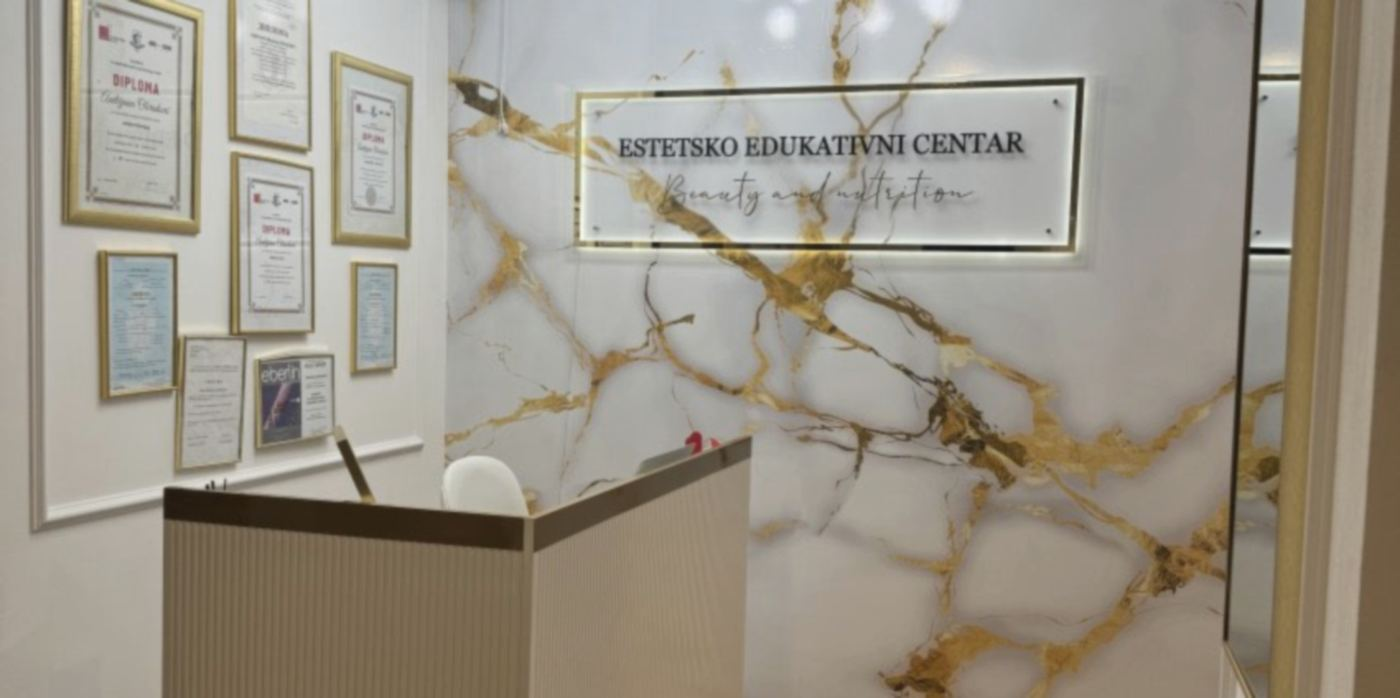
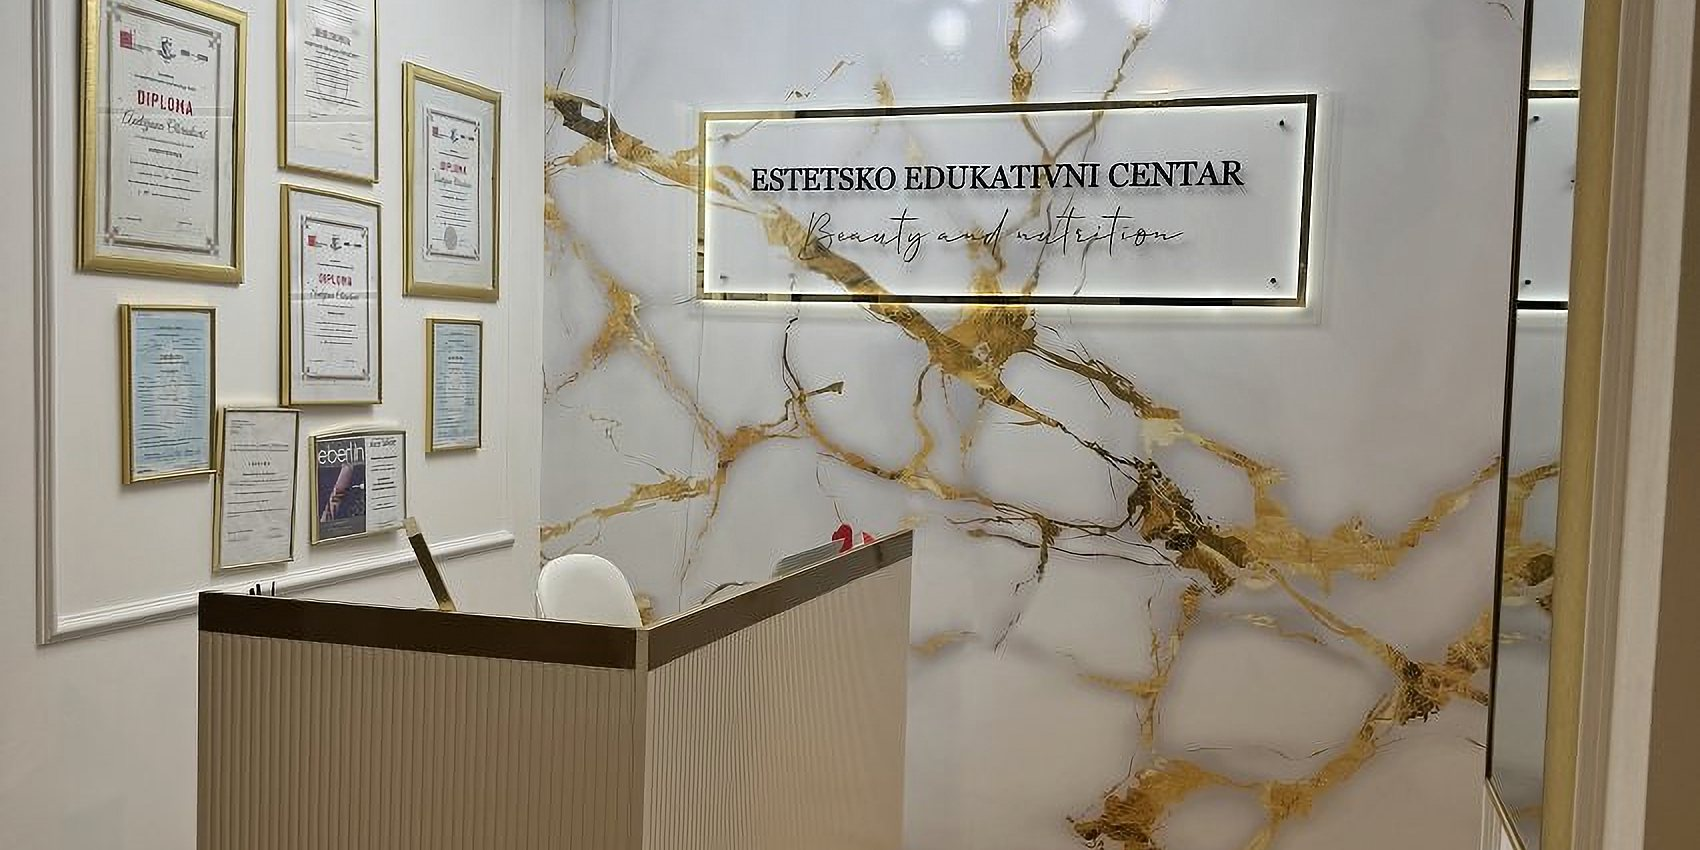
Oštriji hero, poravnat tekst na karticama i slike za tretmane bez slike
- Hero: fotografija salona je ranije bila uvećana 1,65x i namerno
  zamućena, pa je na računaru bila mutna. Sada je uvećana 2x modelom
  Swin2SR (lokalno, bez zamućenja i bez smanjenog kontrasta), 1700x850.
  Raspored hero sekcije je isti.
- Kartice: svaka kartica zauzima pet redova mreže (fotografija, naziv,
  trajanje i cena, opis/napomena/„Prikaži više", dugmad), a redovi su
  zajednički za kartice u istom redu (CSS subgrid). Nazivi u jednom i
  dva reda počinju na istoj visini, cene, linije i dugmad su u ravni.
  Pregledači bez subgrid-a zadržavaju raniji raspored.
- Edukacije su sada kartice sa slikom (gornji deo plakata, ceo plakat
  na uvećanoj slici).
- 15 novih slika iz poslatih fotografija: bubble pen, endosfera lica
  (i podbratka), fototerapija (mala slika, AI uvećanje), kolagen niti
  (sve tri usluge), lipoliza podbratka, lipomodelovanje gornjeg dela
  (i akcija), lipomodelovanje + lipoliza + EMS, maderoterapija premium
  mix (tri fotografije), šminkanje, radiotalasni lifting lica, voćne
  kiseline (i Derma evolution), obe edukacije.
- Privremeno, do posebnih slika: Bio sonda, SPA masaža sa pilingom,
  Neinvazivna body sculpt terapija i Mikrodermoabrazija + bubble pen
  koriste najsličnije postojeće fotografije. Darsonvalizacija kose i
  dalje ima znak salona (nema odgovarajuće fotografije).

Claude-Session: https://claude.ai/code/session_016rbvAuM4D1uDY2CXrVdw2E

diff --git a/public/index.html b/public/index.html
@@ -163,10 +163,12 @@ input,select,textarea{font:inherit;color:var(--ink)}
 .svc p.desc{display:none}
 .svc.open p.desc{display:block}
 .svc .more{align-self:flex-end;margin-top:auto;font-size:11px;font-weight:800;letter-spacing:.1em;text-transform:uppercase;color:var(--gold-strong)}
-.svc-foot{display:flex;justify-content:space-between;align-items:center;gap:10px 14px;margin-top:auto;padding-top:12px;border-top:1px solid var(--line-soft)}
+.svc-foot{display:grid;grid-template-columns:minmax(0,1fr) auto;align-items:center;align-content:start;gap:10px 14px;margin-top:auto;padding-top:12px;border-top:1px solid var(--line-soft)}
 .svc-foot .note{min-width:0}
 .svc-acts{display:flex;flex-direction:column;align-items:stretch;gap:8px;flex:none;min-width:136px}
-.svc .more+.svc-foot{margin-top:0} /* „Prikaži više" stoji u desnom uglu iznad Dodaj/Kalendar, linije kartica u redu ostaju poravnate */
+/* opis, napomena o paketu i „Prikaži više" (desno, odmah iznad linije sa dugmadima) */
+.svc-x{display:flex;flex-direction:column;gap:10px;min-width:0}
+.svc-x:empty{display:none}
 .svc-acts .btn svg{flex:none}
 .svc-note{display:flex;align-items:flex-start;gap:7px;font-size:11.5px;line-height:1.45;color:var(--gold-strong);font-weight:700}
 .svc-note svg{flex:none;margin-top:-0.5px}
@@ -200,8 +202,24 @@ input,select,textarea{font:inherit;color:var(--ink)}
 .svc-img.ph span{font-family:var(--ff-disp);font-size:13px;letter-spacing:.3em;text-transform:uppercase;color:var(--band-gold);opacity:.8}
 @container (max-width:635px){
   .svc.photo.noimg{min-height:0}
+  .svc.photo.noimg::after{display:none}
   .svc.photo.noimg .svc-img{display:none}
   .svc.photo.noimg .svc-body{padding-top:22px;background:var(--band)}
+}
+/* tekst u istoj ravni u celom redu kartica: svaka kartica zauzima pet redova mreže (fotografija, naziv, trajanje i cena,
+   opis/napomena/„Prikaži više", dugmad), a ti redovi su zajednički za sve kartice u istom redu (subgrid).
+   Naziv u jednom redu ostaje poravnat sa nazivima u dva reda, cene, linije i dugmad su na istoj visini.
+   Pregledači bez subgrid-a zadržavaju raniji raspored. */
+@supports (grid-template-rows:subgrid){
+  .svc-grid{row-gap:0}
+  .svc-grid>.svc{margin-bottom:16px}
+  .svc.photo{display:grid;grid-row:span 5;grid-template-rows:subgrid;grid-template-columns:minmax(0,1fr);justify-content:stretch;row-gap:0;min-height:0}
+  .svc.photo::after{content:"";grid-row:1;grid-column:1;height:var(--svc-img-h,212px)}
+  .svc-body{grid-row:2/span 4;display:grid;grid-template-rows:subgrid;row-gap:0}
+  .svc-body>.svc-top{grid-row:1}
+  .svc-body>.svc-meta{grid-row:2;margin-top:10px}
+  .svc-body>.svc-x{grid-row:3;margin-top:10px}
+  .svc-body>.svc-foot{grid-row:4;margin-top:10px}
 }
 .empty{border:1px dashed var(--line);border-radius:18px;padding:44px 20px;text-align:center;color:var(--muted);background:var(--surface)}
 .remind{display:flex;gap:12px;align-items:center;background:linear-gradient(135deg,var(--gold-soft),transparent 160%);border:1px solid var(--gold);color:var(--gold-strong);border-radius:14px;padding:13px 18px;margin:0 0 20px;font-weight:700;font-size:13.5px;box-shadow:var(--shadow)}
@@ -891,10 +909,20 @@ function reminderBanner(){
 /* fotografije tretmana: dodeljuju se po nazivu tretmana (bez obzira na kvačice i velika slova); važi prvo pravilo koje odgovara,
    pa su konkretnija pravila iznad opštijih. Tretmani koje salon doda kasnije dobijaju sliku ako im naziv odgovara nekom pravilu. */
 const SVC_IMGS=[
+  [/obuk\w* .*lica/,"edukacija-lica"],                 // plakat „Edukacija Hydrafacial 14u1"
+  [/obuk\w* .*tela/,"edukacija-tela"],                 // plakat „Edukacija lipomodelovanje tela & Divine face"
   [/eliminacij\w* celulit|anticelulit paket/,"paket-eliminacije-celulita"],  // tri slike: maderoterapija, brazilsko podizanje, vakum sonda
   [/14 ?u ?1/,"hidra-facial-14-u-1"],
   [/h[iy]dra ?f[ae]cial/,"hidra-facial-7-u-1"],     // plakat „Hydrafacial Oxy" (7u1); ne hvata „hidratacija"
   [/darsonval|vlasist/,""],                        // tretman kose: slika lica sa dermapenom ne odgovara
+  [/bubble/,"bubble-pen"],                          // i „Mikrodermoabrazija + bubble pen + mezoporacija"
+  [/vocn\w* kiselin/,"vocne-kiseline"],              // „Voćne kiseline Eberlin" i „Derma evolution - voćne kiseline"
+  [/kolagen niti.*vrat/,"kolagen-niti-lice-vrat"],
+  [/kolagen niti.*celo lice/,"kolagen-niti-lice"],
+  [/kolagen niti/,"kolagen-niti-noto"],             // „Kolagen niti + kolagen tračice + NO-TO maska"
+  [/sminkanj/,"sminkanje"],
+  [/fototerapij/,"fototerapija"],
+  [/bio sond/,"premium-tretman-lica"],              // sonda na licu, dok ne stigne posebna slika
   [/derma ?pen/,"derma-pen"],
   [/oligopeptid|botox|botoks/,"botox-prah"],
   [/divine/,"divine-face"],
@@ -912,6 +940,7 @@ const SVC_IMGS=[
   [/spatul/,"masaza-lica-vrata-i-dekoltea"],       // „Ultrazvučna špatula - masaža lica..." nije mezoporacija
   [/ultrazvu/,"ultrazvuk-lice-mezoporacija"],
   [/iglicam/,"mezoterapija-iglicama"],
+  [/radio ?talasn\w* lifting lica/,"radiotalasni-lifting-lica"],
   [/radio ?talas/,"radiotalasni-lifting"],
   [/konsultacij/,"besplatna-konsultacija"],
   [/brazilsk/,"brazilsko-podizanje-zadnjice"],
@@ -919,14 +948,19 @@ const SVC_IMGS=[
   [/trudnic/,"limfna-drenaza-za-trudnice"],
   [/limfn\w* drenaz/,"limfna-drenaza"],
   [/vakum/,"vakum-sonda"],
+  [/maderoterapij\w* premium mix/,"maderoterapija-mix"],   // tri fotografije (Madero mix, 1, 2)
   [/maderoterapij/,"maderoterapija-premium-mix"],
+  [/lipomodelovanj\w*.*gornj/,"lipomodelovanje-gornji"],
+  [/lipomodelovanj\w* \+ lipoliz/,"lipomodelovanje-lipoliza-ems"],
   [/lipomodelovanj/,"lipomodelovanje-tela"],
   [/neinvaziv.*lipoliz/,"neinvazivna-lipoliza"],
+  [/lipoliz\w* podbrat/,"lipoliza-podbratka"],
   [/^(?!.*neinvaziv).*lipoliz/,"lipoliza"],          // slika sa iglom ne ide uz neinvazivnu lipolizu
   [/lipolaser/,"lipolaseri"],
   [/termo/,"termo-cebe"],
   [/inari|fitnes masaz/,"inarie"],                 // „Inari anticelulit masaža", pre opšteg pravila za anticelulit
   [/sportsk/,"sportska-masaza"],
+  [/endosfer\w* (lica|podbrat)/,"endosfera-lica"],   // pre/posle profil lica i podbratka
   [/^(?!.*(lica|podbrat)).*endosfer/,"endosfera"],  // slika je tretman tela, ne ide uz endosferu lica i podbratka
   [/ice body/,"ice-body-sculpting"],
   [/rolosfer/,"rolosfera"],
@@ -937,7 +971,8 @@ const SVC_IMGS=[
   [/antistres/,"antistress-masaza"],
   [/terapeutsk/,"terapeutska-masaza"],
   [/masaza lica/,"masaza-lica-vrata-i-dekoltea"],
-  [/relax/,"relax-masaza"],
+  [/relax|piling/,"relax-masaza"],                  // i „SPA masaža sa pilingom", dok ne stigne posebna slika
+  [/body sculpt/,"els-body-tesla-aparat"],          // „Neinvazivna body sculpt terapija", posle Ice body i EMS
 ];
 const svcImgMemo={};
 function svcImgKey(s){
@@ -964,32 +999,35 @@ function photoModal(id){
 const openDesc=new Set();
 const svcMore=s=>(s.desc||"").trim()?`<button class="more" data-more="${esc(s.id)}" aria-expanded="${openDesc.has(s.id)}" aria-controls="d-${esc(s.id)}">${openDesc.has(s.id)?"Prikaži manje":"Prikaži više"}</button>`:"";
 const svcDesc=s=>(s.desc||"").trim()?`<p class="desc" id="d-${esc(s.id)}">${esc(s.desc)}</p>`:"";
+/* kartica ima uvek ista četiri reda teksta (naziv, trajanje i cena, opis/napomena/„Prikaži više", dugmad),
+   pa su u istom redu kartica nazivi, cene i dugmad poravnati (vidi .svc-grid i subgrid u CSS-u) */
+const svcX=(s,note)=>`<div class="svc-x">${svcDesc(s)}${note?`<div class="svc-note">${ICON_ROLL}<span>${esc(note)}</span></div>`:""}${svcMore(s)}</div>`;
 function svcCard(s){
   const open=openDesc.has(s.id)?" open":"";
   if(s.cat==="edu"){
-    return `<div class="card svc${open}">
-      <h3>${esc(s.name)}</h3>
+    return `<div class="card svc photo${svcImgKey(s)?"":" noimg"}${open}">
+    ${svcImgHtml(s)}
+    <div class="svc-body">
+      <div class="svc-top"><h3>${esc(s.name)}</h3></div>
       <div class="svc-meta"><span>Termini po dogovoru</span><span class="price">Cena: na upit</span></div>
-      ${svcDesc(s)}
-      ${svcMore(s)}
+      ${svcX(s,"")}
       <div class="svc-foot">
         <span class="note">Edukator: Andrijana</span>
         <div class="svc-acts">
           <button class="btn btn-gold btn-sm" data-inq="${esc(s.id)}">Pošalji upit</button>
         </div>
       </div>
-    </div>`;
+    </div>
+  </div>`;
   }
   const inCart=S.cart.some(c=>c.id===s.id);
   const off=+s.oldPrice>+s.price?`<span class="pill pill-off">AKCIJA −${Math.round((1-s.price/s.oldPrice)*100)}%</span>`:"";
   return `<div class="card svc photo${svcImgKey(s)?"":" noimg"}${inCart?" inCart":""}${open}">
     ${svcImgHtml(s)}
     <div class="svc-body">
-      ${off?`<div class="svc-top"><h3>${esc(s.name)}</h3>${off}</div>`:`<h3>${esc(s.name)}</h3>`}
+      <div class="svc-top"><h3>${esc(s.name)}</h3>${off}</div>
       <div class="svc-meta"><span>⏱ ${durTxt(+s.duration)}</span>${+s.oldPrice>+s.price?`<span style="text-decoration:line-through;opacity:.6">${priceTxt(s,+s.oldPrice)}</span>`:""}<span class="price">${+s.price===0?"Besplatno":priceTxt(s,+s.price)}</span></div>
-      ${svcDesc(s)}
-      ${s.note?`<div class="svc-note">${ICON_ROLL}<span>${esc(s.note)}</span></div>`:""}
-      ${svcMore(s)}
+      ${svcX(s,s.note)}
       <div class="svc-foot">
         <span class="note">${s.aparat?"Tretman na aparatu":svcEmps(s).map(e=>e.name).join(" · ")}</span>
         <div class="svc-acts">
